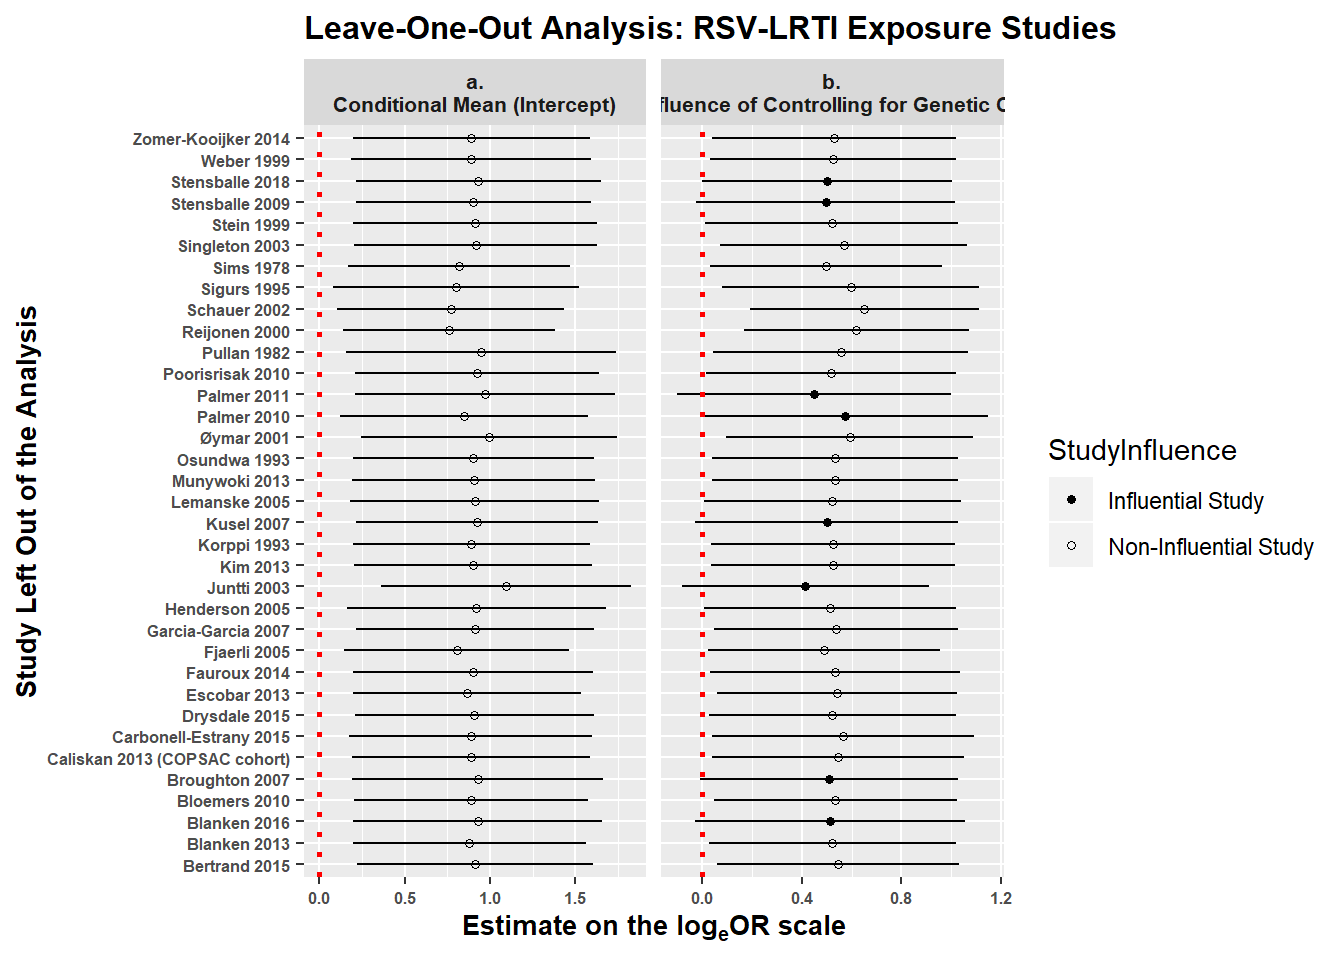
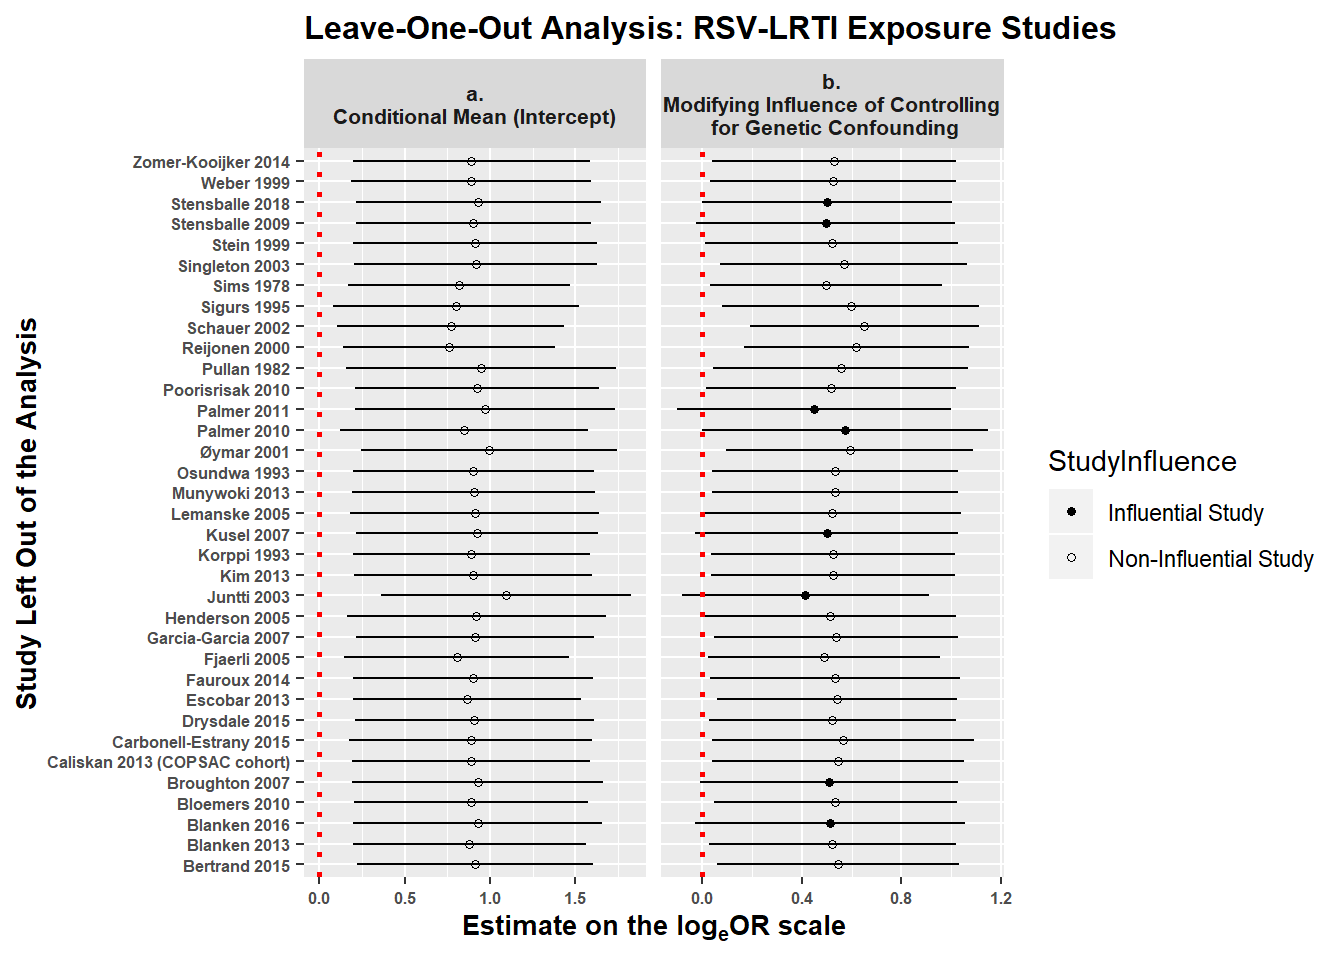
20191017c

diff --git a/index.html b/index.html
@@ -372,7 +372,7 @@ div.tocify {
 
 
 <h1 class="title toc-ignore">Analytic Summary</h1>
-<h4 class="date">UPDATED October 17, 2019, 12:42</h4>
+<h4 class="date">UPDATED October 17, 2019, 13:23</h4>
 
 </div>
 
@@ -797,7 +797,7 @@ looplotdf1 &lt;- subset( looplotdf, parameter == &#39;Intercept&#39; | parameter
 looplotdf1$parameter &lt;- factor( looplotdf1$parameter  )
 
 levels( looplotdf1$parameter) &lt;- c( &#39;a.\nConditional Mean (Intercept)&#39;,
-                       &#39;b.\nModifying Influence of Controlling for Genetic Confounding&#39;)
+                       &#39;b.\nModifying Influence of Controlling\n for Genetic Confounding&#39;)
 
 looplotdf1$StudyInfluence &lt;- factor( ifelse( looplotdf1$cilow &lt;= 0, 0, 1 ), 
                                                 levels = 0:1, 
